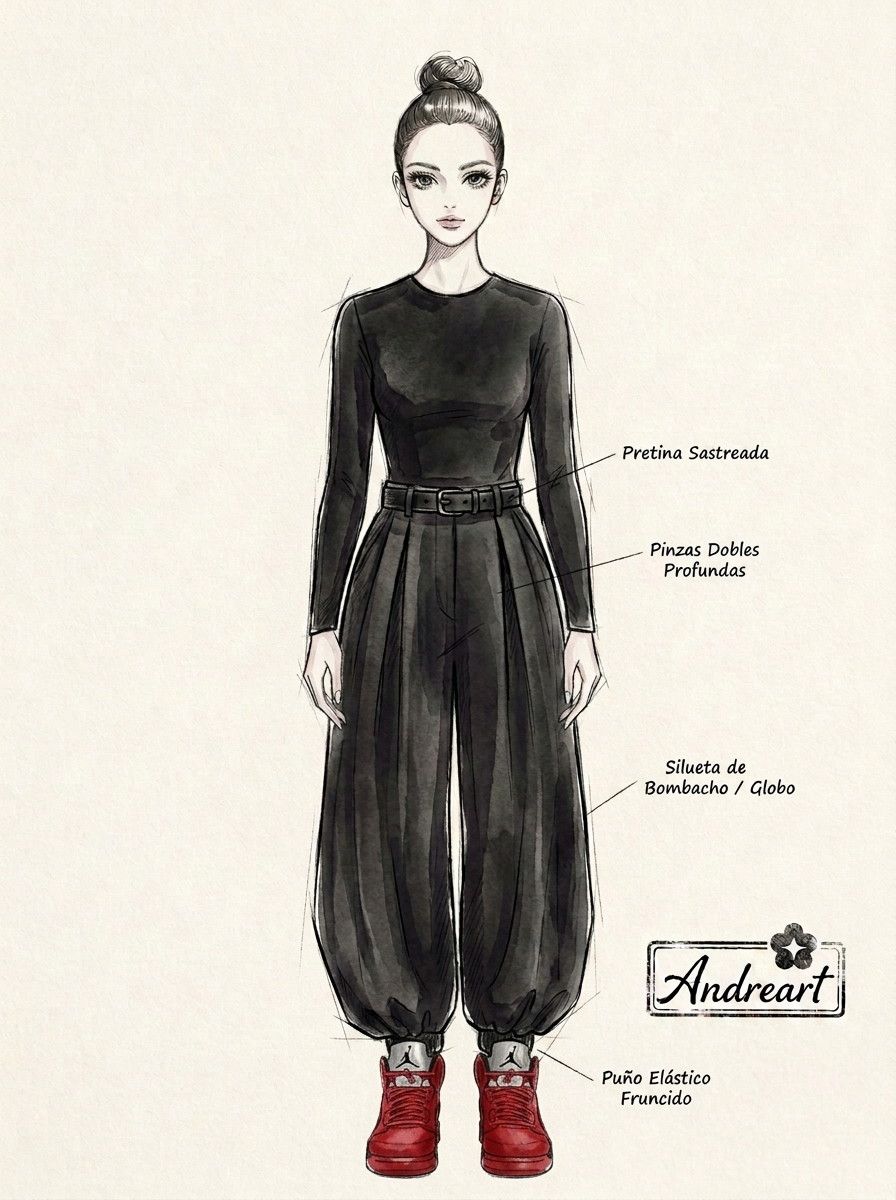
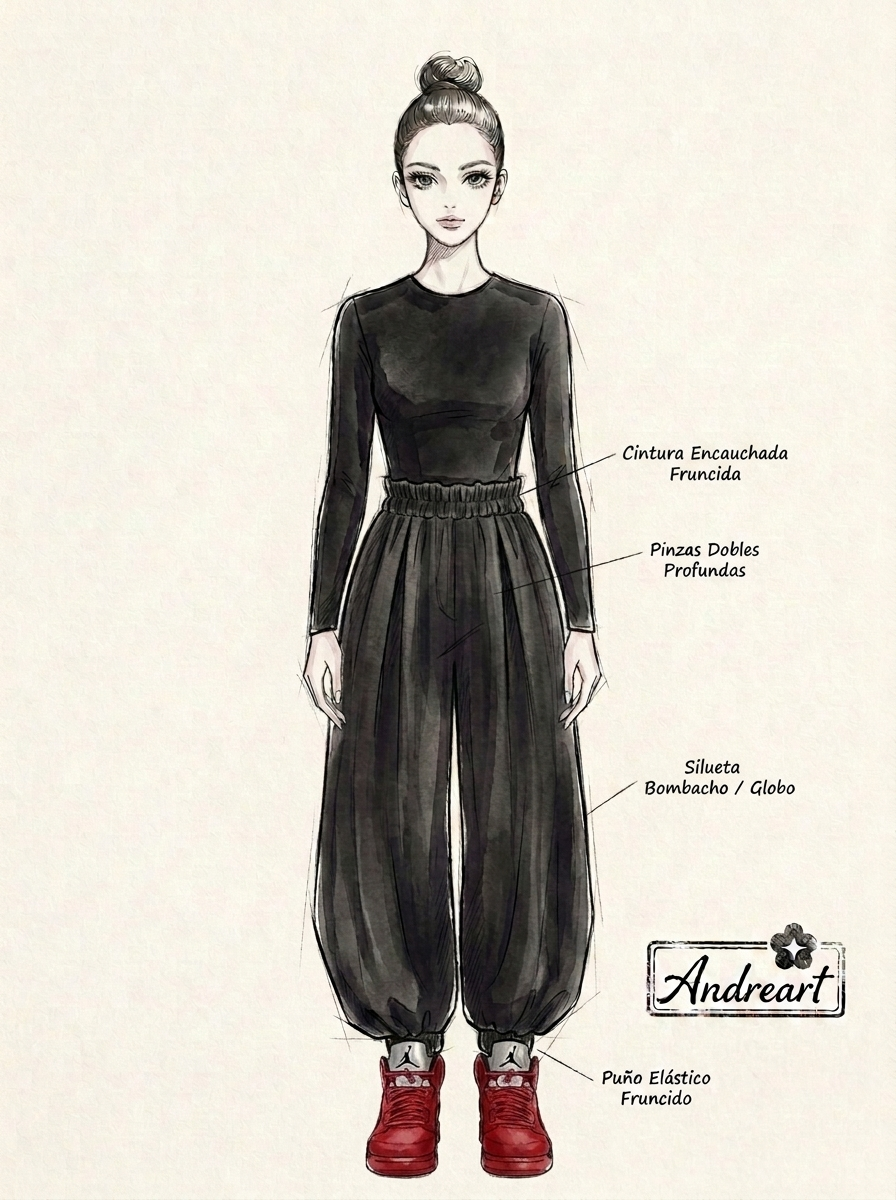
feat(kokusen): integrar editorial hombre con corte undercut, figurin chaqueta y cintura encauchada v1.5
- Registrar 09-foto-realista-kokusen-hombre.jpg con modelo masculino hispano y corte undercut en ciclorama azul
- Registrar 01-sketch-figurin-chaqueta.jpg mostrando el blouson tecnico Kokusen
- Actualizar 01-sketch-figurin-pantalon-globo.jpg con cintura encauchada fruncida
- Sincronizar SPEC.md, manifest.json e index.ts con los 9 activos aprobados v1.5

diff --git a/Andreart Brain/01 Brand Context/Colecciones/Kokusen/index.ts b/Andreart Brain/01 Brand Context/Colecciones/Kokusen/index.ts
@@ -75,6 +75,18 @@ export const ASSETS: Record<string, CollectionAsset> = {
     status: 'active',
     approved: true
   },
+  '01-sketch-figurin-chaqueta': {
+    id: '01-sketch-figurin-chaqueta',
+    filename: '01-sketch-figurin-chaqueta.jpg',
+    path: './assets/01-sketch-figurin-chaqueta.jpg',
+    category: 'figurine',
+    garment: 'Chaqueta Cuello Chimenea Kokusen',
+    view: 'pasarela',
+    description: 'Figurín de autor protagónico mostrando en exclusiva la Chaqueta Kokusen con cuello chimenea (11 cm), cremallera metálica continua, tancas carmesí, bolsillos diagonales y capota integrada.',
+    sourceReference: null,
+    status: 'active',
+    approved: true
+  },
   '01-sketch-personaje-frente': {
     id: '01-sketch-personaje-frente',
     filename: '01-sketch-personaje-frente.jpg',
@@ -141,8 +153,20 @@ export const ASSETS: Record<string, CollectionAsset> = {
     path: './assets/08-foto-realista-kokusen-hero.jpg',
     category: 'editorial',
     garment: 'Conjunto Kokusen',
-    view: 'editorial-lookbook',
+    view: 'editorial-lookbook-mujer',
     description: 'Fotografía editorial ultra-realista con modelo hispana/latina sobre sinfín azul estudio sin humo y pose Yuji Itadori, conjunto Kokusen con cintura encauchada y Air Jordan 5 Retro Red Suede.',
+    sourceReference: './references/refe-pantalon-globo-02.jpg, ./references/refe-calzado-jordan-5-red-suede.jpg',
+    status: 'active',
+    approved: true
+  },
+  '09-foto-realista-kokusen-hombre': {
+    id: '09-foto-realista-kokusen-hombre',
+    filename: '09-foto-realista-kokusen-hombre.jpg',
+    path: './assets/09-foto-realista-kokusen-hombre.jpg',
+    category: 'editorial',
+    garment: 'Conjunto Kokusen',
+    view: 'editorial-lookbook-hombre',
+    description: 'Fotografía editorial ultra-realista con modelo masculino hispano con corte undercut sobre ciclorama sinfín azul estudio impecable (cero humo), pose de combate Yuji Itadori con mano en el bolsillo, vistiendo el conjunto Kokusen completo y zapatillas Air Jordan 5 Retro Red Suede.',
     sourceReference: './references/refe-pantalon-globo-02.jpg, ./references/refe-calzado-jordan-5-red-suede.jpg',
     status: 'active',
     approved: true

diff --git a/Andreart Brain/01 Brand Context/Colecciones/Kokusen/SPEC.md b/Andreart Brain/01 Brand Context/Colecciones/Kokusen/SPEC.md
@@ -78,17 +78,27 @@ Diseñado con dedicación artesanal y visión de autor para integrar la presenci
 ---
 
 ## 📸 4.0. Fotografía Editorial Realista (Lookbook Hero)
+
+### Lookbook Hero: Modelo Femenina Hispana
 ![[01 Brand Context/Colecciones/Kokusen/assets/08-foto-realista-kokusen-hero.jpg]]
-*Fotografía Editorial Realista (Lookbook Hero):* Modelo de apariencia hispana/latina luciendo el conjunto Kokusen completo en estudio de alta costura sobre fondo sinfín azul estudio impecable (cero humo): blouson técnico en sarga pesada con cuello chimenea estructurado (11 cm), cremallera central continua metálica, tancas carmesí y capota integrada, combinado con el nuevo Pantalón Globo Plisado Kokusen v1.5 con cintura encauchada fruncida (sin cinturón) en postura inspirada en Yuji Itadori con una mano en el bolsillo, descansando sobre las zapatillas de autor **Air Jordan 5 Retro "Red Suede"** en gamuza roja escarlata con lengüeta reflectiva 3M.
+*Fotografía Editorial Realista (Mujer):* Modelo de apariencia hispana/latina luciendo el conjunto Kokusen completo en estudio de alta costura sobre fondo sinfín azul estudio impecable (cero humo): blouson técnico en sarga pesada con cuello chimenea estructurado (11 cm), cremallera central continua metálica, tancas carmesí y capota integrada, combinado con el nuevo Pantalón Globo Plisado Kokusen v1.5 con cintura encauchada fruncida (sin cinturón) en postura inspirada en Yuji Itadori con una mano en el bolsillo, descansando sobre las zapatillas de autor **Air Jordan 5 Retro "Red Suede"** en gamuza roja escarlata con lengüeta reflectiva 3M.
+
+### Lookbook Hero: Modelo Masculino Hispano (Corte Undercut)
+![[01 Brand Context/Colecciones/Kokusen/assets/09-foto-realista-kokusen-hombre.jpg]]
+*Fotografía Editorial Realista (Hombre):* Modelo masculino de apariencia hispana/latina con corte undercut texturizado en los laterales y nuca, encarnando la versión de alta costura de Yuji Itadori en postura marcial erguida con la mano en el bolsillo del pantalón globo sobre fondo sinfín azul estudio sin humo, vistiendo el conjunto Kokusen completo y zapatillas **Air Jordan 5 Retro "Red Suede"**.
 
 ---
 
 ## 🎨 4.1. Figurines de Moda a Mano Alzada (Croquis de Taller)
 *Estilo de taller: Trazos visibles de grafito, tinta y aguada de acuarela sobre papel marfil (#F6F4EE) con sello oficial de autor Andreart.*
 
-### Figurín Individual: Pantalón Globo Plisado Kokusen (Protagónico)
+### Figurín Individual: Pantalón Globo Plisado Kokusen (Cintura Encauchada)
 ![[01 Brand Context/Colecciones/Kokusen/assets/01-sketch-figurin-pantalon-globo.jpg]]
-*Figurín de Autor (Pantalón Globo):* Modelo estilizada anime en pose erguida de pasarela luciendo en exclusiva el Pantalón Globo Plisado Kokusen en negro azabache (#0D0D0E): tiro alto con pretina sastre, pasadores, cinturón negro con hebilla sobria, pliegues frontales dobles profundos que abren un volumen curvo y fluido tipo bombacho/balloon, y puños elásticos fruncidos descansando sobre las zapatillas **Air Jordan 5 Retro "Red Suede"** en gamuza roja carmesí con lengüeta plateada reflectiva. Combinado con un top minimalista negro fajado para mantener el protagonismo absoluto en la arquitectura del pantalón.
+*Figurín de Autor (Pantalón Globo v1.5):* Modelo estilizada anime en pose erguida de pasarela luciendo en exclusiva el Pantalón Globo Plisado Kokusen en negro azabache (#0D0D0E): tiro alto con cintura encauchada fruncida elástica (5 cm) sin cinturón ni pasadores, pliegues frontales dobles profundos que abren un volumen curvo y fluido tipo bombacho/balloon, y puños elásticos fruncidos descansando sobre las zapatillas **Air Jordan 5 Retro "Red Suede"** en gamuza roja carmesí con lengüeta plateada reflectiva. Combinado con un top minimalista negro fajado para mantener el protagonismo absoluto en la arquitectura del pantalón.
+
+### Figurín Individual: Chaqueta Cuello Chimenea Kokusen (Protagónico)
+![[01 Brand Context/Colecciones/Kokusen/assets/01-sketch-figurin-chaqueta.jpg]]
+*Figurín de Autor (Chaqueta Kokusen):* Modelo estilizada anime luciendo en exclusiva la Chaqueta Técnica Kokusen con cuello chimenea estructurado (11 cm), cremallera metálica central continua visible hasta el borde superior con tirador, tancas tubulares carmesí (#D01E29) en cuello, bolsillos con tapeta en diagonal, pretina blouson y capota integrada reposando sobre la espalda, con llamadas caligráficas técnicas de autor.
 
 ### Figurín de Conjunto Completo Kokusen (Chaqueta + Pantalón Globo)
 ![[01 Brand Context/Colecciones/Kokusen/assets/01-sketch-personaje-frente.jpg]]
@@ -126,13 +136,15 @@ La colección cuenta con un barrel tipado en TypeScript ([index.ts](file:///User
 
 | ID del Activo | Archivo en `assets/` | Tipología | Prenda / Pieza | Referencia Fuente |
 | :--- | :--- | :--- | :--- | :--- |
-| `01-sketch-figurin-pantalon-globo` | `01-sketch-figurin-pantalon-globo.jpg` | Figurín Protagónico | Pantalón Globo Plisado Kokusen | `references/refe-pantalon-globo-01.jpg` + `references/refe-calzado-jordan-5-red-suede.jpg` |
+| `01-sketch-figurin-pantalon-globo` | `01-sketch-figurin-pantalon-globo.jpg` | Figurín Protagónico | Pantalón Globo Plisado (Cintura Encauchada) | `references/refe-pantalon-globo-01.jpg` + `references/refe-calzado-jordan-5-red-suede.jpg` |
+| `01-sketch-figurin-chaqueta` | `01-sketch-figurin-chaqueta.jpg` | Figurín Protagónico | Chaqueta Cuello Chimenea Kokusen | Moldería atelier (Cuello 11 cm y Capota) |
 | `01-sketch-personaje-frente` | `01-sketch-personaje-frente.jpg` | Figurín Conjunto Completo | Conjunto Kokusen Total Black | `references/refe-pantalon-globo-01.jpg` + `references/refe-calzado-jordan-5-red-suede.jpg` |
 | `04-sketch-chaqueta-frente` | `04-sketch-chaqueta-frente.jpg` | Plano Técnico (Delantero) | Chaqueta Cuello Chimenea Kokusen | Moldería atelier (Cuello 11 cm) |
-| `05-sketch-chaqueta-atras` | `05-sketch-chaqueta-atras.jpg` | Plano Técnico (Trasero) | Chaqueta Cuello Chimenea Kokusen | Moldería atelier (Canesú limpio) |
-| `06-sketch-pantalon-frente` | `06-sketch-pantalon-frente.jpg` | Plano Técnico (Delantero) | Pantalón Globo Plisado Kokusen | `references/refe-pantalon-globo-01.jpg` |
-| `07-sketch-pantalon-atras` | `07-sketch-pantalon-atras.jpg` | Plano Técnico (Trasero) | Pantalón Globo Plisado Kokusen | `references/refe-pantalon-globo-01.jpg` |
-| `08-foto-realista-kokusen-hero` | `08-foto-realista-kokusen-hero.jpg` | Editorial de Lookbook | Conjunto Kokusen Total Black | `references/refe-pantalon-globo-02.jpg` + `references/refe-calzado-jordan-5-red-suede.jpg` |
+| `05-sketch-chaqueta-atras` | `05-sketch-chaqueta-atras.jpg` | Plano Técnico (Trasero) | Chaqueta Cuello Chimenea Kokusen | Moldería atelier (Canesú limpio y Capota) |
+| `06-sketch-pantalon-frente` | `06-sketch-pantalon-frente.jpg` | Plano Técnico (Delantero) | Pantalón Globo Plisado (Cintura Encauchada) | `references/refe-pantalon-globo-01.jpg` |
+| `07-sketch-pantalon-atras` | `07-sketch-pantalon-atras.jpg` | Plano Técnico (Trasero) | Pantalón Globo Plisado (Cintura Encauchada) | `references/refe-pantalon-globo-01.jpg` |
+| `08-foto-realista-kokusen-hero` | `08-foto-realista-kokusen-hero.jpg` | Editorial Lookbook (Mujer) | Conjunto Kokusen Total Black | `references/refe-pantalon-globo-02.jpg` + `references/refe-calzado-jordan-5-red-suede.jpg` |
+| `09-foto-realista-kokusen-hombre` | `09-foto-realista-kokusen-hombre.jpg` | Editorial Lookbook (Hombre) | Conjunto Kokusen Total Black | `references/refe-pantalon-globo-02.jpg` + `references/refe-calzado-jordan-5-red-suede.jpg` |
 
 ---
 
